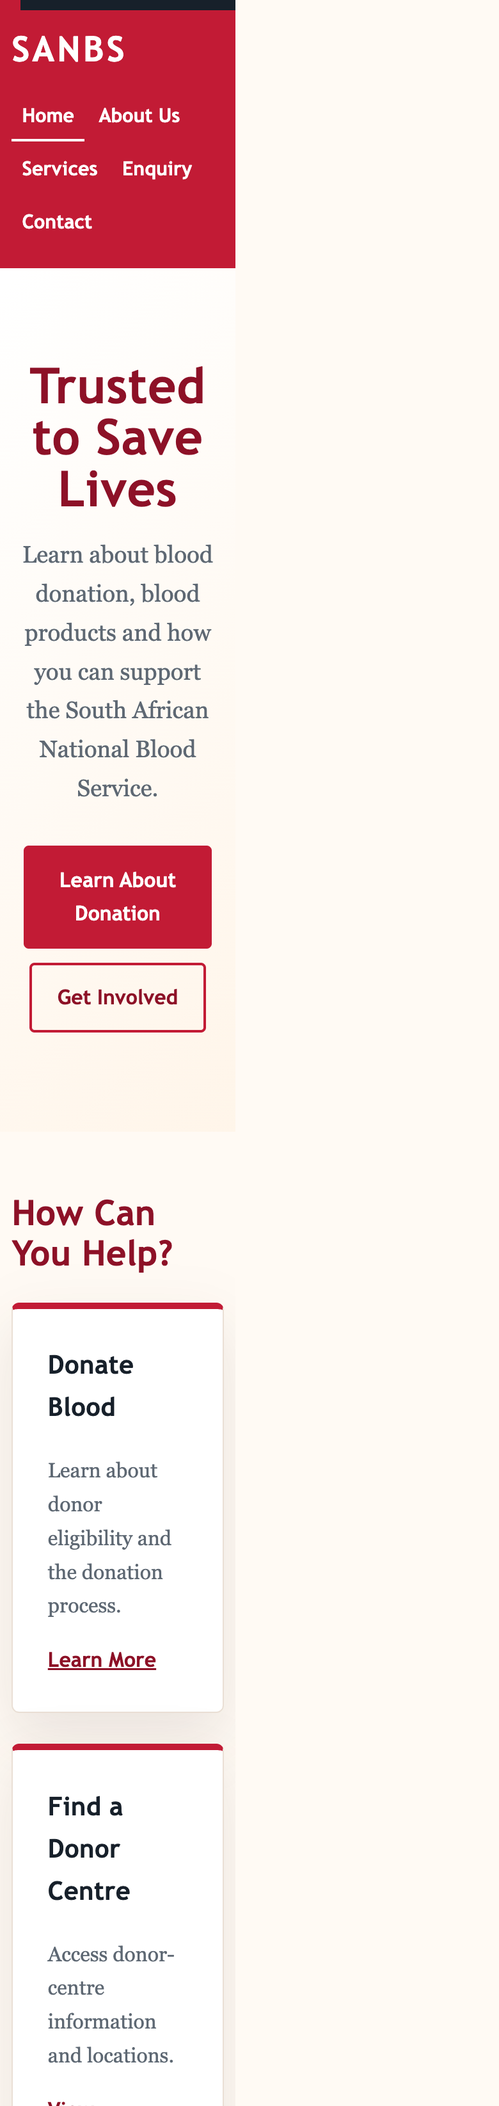
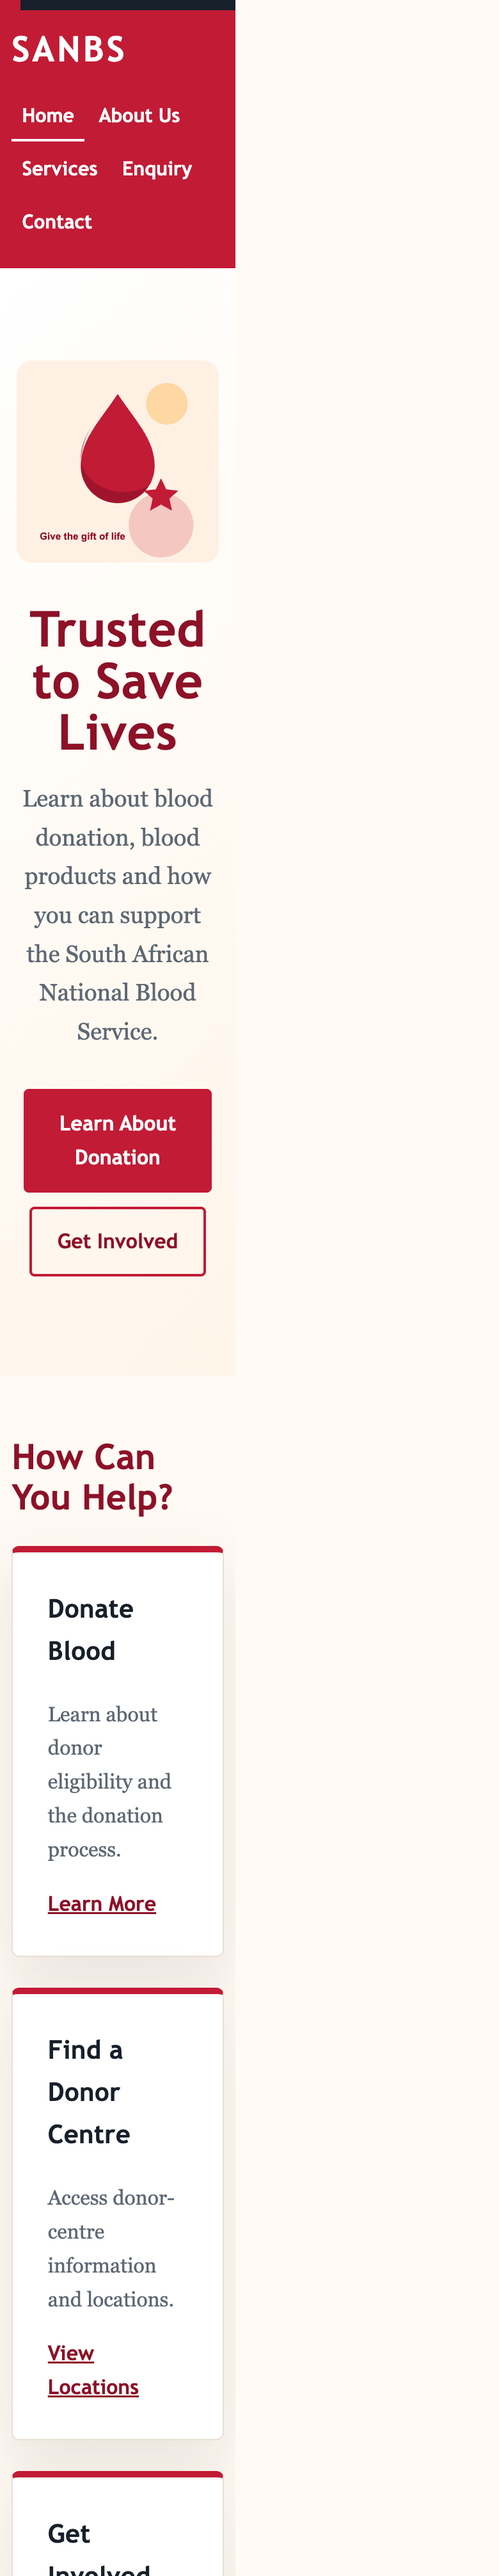
CSS updates for responsive hero image and text alignment

Changed region(s): [[0.0, 0.0, 0.4923, 0.496], [0.0308, 0.5581, 0.4615, 1.0]]

diff --git a/css/style.css b/css/style.css
@@ -44,6 +44,8 @@ nav a:hover, nav a[aria-current='page'] { border-bottom-color: #fff; }
 main { margin: 0 auto; max-width: 1180px; }
 section { padding: 4rem 6%; }
 .hero { background: linear-gradient(135deg, #fff 0%, #fff5e9 100%); padding: clamp(4rem, 9vw, 8rem) 10%; text-align: center; }
+.hero-image { display: block; margin: 0 auto 2rem; max-width: 760px; }
+.hero-image img { border-radius: 12px; display: block; height: auto; width: 100%; }
 .hero p { color: var(--muted); font-size: 1.15rem; margin: 0 auto 1.5rem; max-width: 680px; }
 .hero h1 { color: var(--red-dark); }
 .page-title { background: var(--ink); color: #fff; padding: 4rem 6%; }
@@ -56,6 +58,7 @@ section { padding: 4rem 6%; }
 .card a { font-family: 'Trebuchet MS', Arial, sans-serif; font-weight: 700; }
 .button { background: var(--red); border: 2px solid var(--red); border-radius: 4px; color: #fff; display: inline-block; font-family: 'Trebuchet MS', Arial, sans-serif; font-weight: 700; margin: 0.35rem; padding: 0.75rem 1.25rem; text-decoration: none; transition: background 160ms ease, transform 160ms ease; }
 .button:hover { background: var(--red-dark); border-color: var(--red-dark); transform: translateY(-2px); }
+.button:active { transform: translateY(0); }
 .secondary { background: transparent; color: var(--red-dark); }
 .secondary:hover { color: #fff; }
 ol { display: grid; gap: 0.8rem; padding-left: 1.5rem; }
@@ -77,6 +80,12 @@ footer p { margin-bottom: 0.4rem; }
 	.hero { padding: 4.5rem 7%; }
 	.cards { grid-template-columns: 1fr; }
 	.page-title { padding: 3rem 5%; }
+}
+
+@media (min-width: 761px) and (max-width: 1024px) {
+	section { padding-left: 5%; padding-right: 5%; }
+	.hero { padding-left: 7%; padding-right: 7%; }
+	.cards { grid-template-columns: repeat(2, 1fr); }
 }
 
 @media (prefers-reduced-motion: reduce) {

diff --git a/index.html b/index.html
@@ -23,6 +23,10 @@
 </header>
 <main id="main-content">
 <section class="hero">
+<picture class="hero-image">
+<source media="(max-width: 760px)" srcset="images/hero-blood-mobile.svg 700w" sizes="92vw">
+<img src="images/hero-blood-wide.svg" srcset="images/hero-blood-mobile.svg 700w, images/hero-blood-wide.svg 1200w" sizes="(max-width: 760px) 92vw, 760px" width="1200" height="520" alt="Illustration of a blood drop, bandage and heart symbol">
+</picture>
 <h1>Trusted to Save Lives</h1>
 <p>Learn about blood donation, blood products and how you can support the South African National Blood Service.</p>
 <a class="button" href="services.html">Learn About Donation</a>

diff --git a/README.md b/README.md
@@ -207,10 +207,13 @@ The desktop solution now includes:
 - Styled buttons, cards, forms, fields, links, ordered lists and the footer.
 - Hover, keyboard-focus and active-navigation states.
 - A keyboard-accessible “Skip to main content” link on every page.
+- A responsive hero image using a `picture` element, separate wide/mobile SVG assets, `srcset` and `sizes`.
 
 ## Responsive Design
 
 The layout uses relative spacing and a mobile breakpoint at `760px`. At smaller widths, the navigation becomes vertical, content sections use reduced spacing, cards switch to one column and headings scale down automatically. The forms use fluid widths and resizable text areas so they remain usable on phones and tablets.
+
+A second breakpoint between `761px` and `1024px` creates a two-column tablet card layout. The hero image uses the mobile asset below `760px`, while the wide asset is selected for larger screens. Both image variants use fluid width constraints so they scale without overflowing their containers.
 
 The site was checked at the following viewport sizes:
 
@@ -219,6 +222,14 @@ The site was checked at the following viewport sizes:
 | Desktop | 1440 × 900 | `evidence/desktop-home.png` |
 | Tablet | 768 × 1024 | `evidence/tablet-home.png` |
 | Mobile | 390 × 844 | `evidence/mobile-home.png` |
+
+### Screenshot Evidence
+
+![Desktop home page at 1440 by 900 pixels](evidence/desktop-home.png)
+
+![Tablet home page at 768 by 1024 pixels](evidence/tablet-home.png)
+
+![Mobile home page at 390 by 844 pixels](evidence/mobile-home.png)
 
 ## Part 2 Changelog
 
@@ -229,6 +240,8 @@ The site was checked at the following viewport sizes:
 | 15 September 2026 | Added responsive rules for screens below 760px. The navigation now stacks vertically, multi-column cards become a single column, and spacing and headings adapt to mobile widths. |
 | 15 September 2026 | Added a skip-navigation link and `aria-current="page"` to each page so keyboard and screen-reader users can identify the current page and reach the main content quickly. |
 | 15 September 2026 | Tested the shared stylesheet links and responsive breakpoint across all five pages and recorded desktop, tablet and mobile screenshot evidence. |
+| 15 September 2026 | Added separate wide and mobile hero illustrations with `picture`, `srcset`, `sizes`, intrinsic dimensions and descriptive alternative text to demonstrate responsive image handling. |
+| 15 September 2026 | Added a tablet breakpoint from 761px to 1024px, including a two-column card layout, and added an explicit button `:active` state for complete pseudo-class coverage. |
 
 ## References
 
